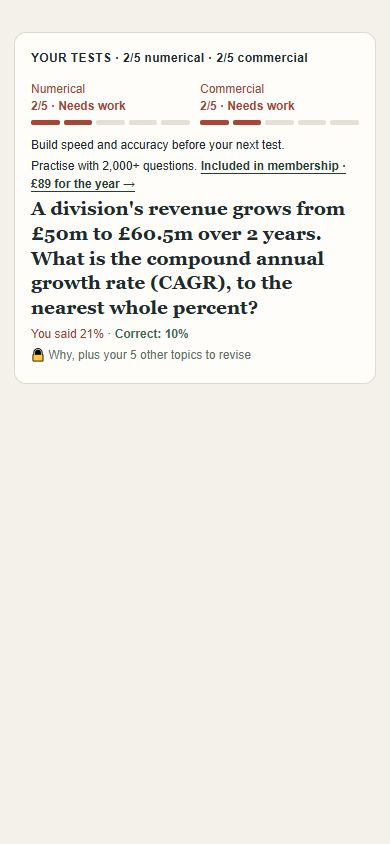
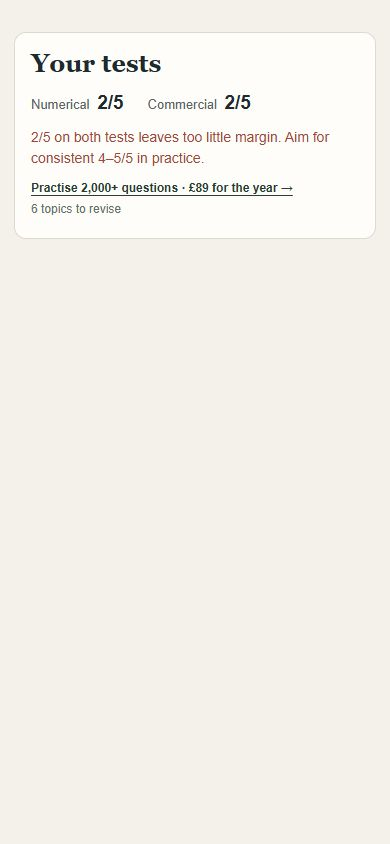
Keep test results brief and separate free benefits from full membership

Changed region(s): [[0.0308, 0.0616, 0.8923, 0.4313], [0.8615, 0.1232, 0.9231, 0.154]]

diff --git a/result-entry.js b/result-entry.js
@@ -18,15 +18,15 @@ function membershipUrl(id){return '/membership-start.html?return='+encodeURIComp
 function atsMarkup(e){const level=e.ats?.level||'Not available',tone=level.toLowerCase(),copy={Low:'Your CV could be filtered out before a person reads it.',Medium:'Parts of your CV may not read cleanly in application systems.',Strong:'Your CV text covers the main readiness checks.'}[level]||'Your saved ATS readiness result is not available.';return `<section class="check-ats ${tone}"><h2>ATS readiness</h2><div class="check-ats-card"><strong>${esc(level)}</strong><div class="check-ats-meter" aria-label="${esc(level)} ATS readiness">${[1,2,3].map(n=>`<i class="${n<=(level==='Strong'?3:level==='Medium'?2:level==='Low'?1:0)?'filled':''}"></i>`).join('')}</div><p>${copy}</p><p class="check-locked-note">Full ATS breakdown and fixes in your full review.</p></div></section>`;}
 export function sectionsCardMarkup(e){const rows=e.sections||[];if(!rows.length)return '';const labels={education:'YOUR DEGREE',skills:'YOUR SKILLS',interests:'YOUR INTERESTS'};return `<section class="check-sections"><h2>The sections most students waste</h2><p class="check-sections-sub">From your CV · what it says, what’s wrong, what to change</p>${rows.map((r,i)=>`<article class="check-section-row"><h3>${labels[r.id]||'YOUR CV'}</h3><blockquote><mark>${esc(r.says)}</mark></blockquote>${r.wrong?`<p class="check-section-wrong">✗ ${esc(r.wrong)}</p>`:'<p class="check-section-wrong">✗ flagged 🔒</p>'}${r.change?`<div class="check-section-change"><strong>Change:</strong> ${esc(r.change)}</div>`:e.unlocked?'<p class="check-section-lock">🔒 In your full review · £89 for the year</p>':i===0?'<div class="check-section-change"><span class="entry-locked-placeholder" aria-hidden="true">Your personal section advice appears here after joining.</span><p class="check-section-lock">🔒 Join free to see what to change</p></div>':''}${r.rewrite?`<p class="check-section-rewrite"><strong>Rewritten:</strong> ${gapMarkup(r.rewrite)}</p>`:''}</article>`).join('')}${!e.unlocked&&rows.length>1?`<p class="check-more">+${rows.length-1} more sections flagged</p>`:''}</section>`;}
 function interviewValueMarkup(e){const q=e.interviewQuestion;if(!q)return '';return `<section class="check-question-value"><h2>A question you’ll be asked</h2><blockquote>${esc(q.question)}</blockquote><p class="check-value-label">How to answer, built from your CV:</p><ol class="check-answer-beats"><li><strong>✓ Situation</strong><p>${esc(q.situation)}</p></li>${e.unlocked?(q.beats||[]).slice(1).map((beat,i)=>`<li><strong>${i?'Result':'What you did'}</strong><p>${gapMarkup(beat)}</p></li>`).join(''):['What you did','Result'].map(label=>`<li class="check-locked-beat"><strong>🔒 ${label}</strong><p class="entry-locked-placeholder" aria-hidden="true">Your personal evidence and answer guidance appear here.</p></li>`).join('')}</ol>${e.unlocked?`<a class="ink" href="${esc(q.practiceUrl)}">Practise it →</a>`:'<p class="check-value-unlock">Join free to see the full answer + practise it on camera</p>'}</section>`;}
-function testBandsMarkup(e,id){const t=e.tests;if(!t||t.skipped)return '';const marks=[['Numerical',t.numerical],['Commercial',t.commercial]],lowest=Math.min(t.numerical,t.commercial);return `<div class="check-test-bands">${marks.map(([label,score])=>{const b=testResultBand(score);return `<div class="check-test-band ${b.tone}"><span>${label}</span><strong>${score}/5 · ${b.label}</strong><div class="check-test-segments" aria-label="${score} out of 5">${[1,2,3,4,5].map(n=>`<i class="${n<=score?'filled':''}"></i>`).join('')}</div></div>`;}).join('')}</div><p class="check-test-guidance">${esc(testResultBand(lowest).message)}</p><p class="check-test-upsell">${e.member?'<a href="/tests.html">Keep practising →</a>':`Practise with 2,000+ questions. <a href="${esc(membershipUrl(id))}">Included in membership · £89 for the year →</a>`}</p>`;}
-function testValueMarkup(e,id){const t=e.tests,v=e.testReview;if(!t||t.skipped||v?.skipped)return '<section class="check-test-value"><h2>Your tests</h2><p>Tests not taken · CV evidence score only</p></section>';return `<section class="check-test-value"><h2>YOUR TESTS · ${esc(t.numerical)}/${esc(t.numericalTotal)} numerical · ${esc(t.commercial)}/${esc(t.commercialTotal)} commercial</h2>${testBandsMarkup(e,id)}${v?.question?`<p class="check-wrong-question">${esc(v.question)}</p>${v.table?'<pre class="check-test-table">'+esc(typeof v.table==='string'?v.table:JSON.stringify(v.table))+'</pre>':''}<p class="check-your-answer">You said ${esc(v.selectedAnswer)} · <strong>Correct: ${esc(v.correctAnswer)}</strong></p>${e.unlocked?`<div class="check-worked-answer"><p>${esc(v.explanation)}</p><ul>${(v.steps||[]).map(step=>`<li>${esc(step)}</li>`).join('')}</ul><p>Topics to revise: ${esc((v.topics||[]).join(' · '))}</p></div>`:`<p class="check-value-unlock">🔒 Why${v.otherTopicCount?', plus your '+esc(v.otherTopicCount)+' other '+(v.otherTopicCount===1?'topic':'topics')+' to revise':''}</p>`}`:`<p>${v?.perfect?'Good result. Keep practising to maintain it under time pressure.':'Your saved marks are shown above. '+esc(t.topicCount||0)+' '+(t.topicCount===1?'topic':'topics')+' to revise. A saved answer is needed to show a specific mistake.'}</p>`}</section>`;}
-function stillLockedMarkup(e,id){if(e.member)return '';const count=e.membership?.flaggedCount||0,other=e.testReview?.otherTopicCount||0;return `<section class="check-still-locked"><h2>Still locked for you</h2><ul>${!e.unlocked?'<li>The full answer to your interview question</li>':''}${other&&!e.unlocked?`<li>Your ${esc(other)} other test ${other===1?'topic':'topics'}</li>`:''}<li>${count?`All ${esc(count)} CV lines fixed`:'Your full CV review and fixes'}</li><li>Your full ATS breakdown and fixes</li><li>Your degree, skills and interests rewritten</li></ul><a class="ink" href="${esc(membershipUrl(id))}">Unlock membership · £89 for the year</a><p class="check-payment-note">One payment · no auto-renewal · less than one CV rewrite</p><button type="button" class="check-start-again" data-assessment-restart>Start again</button></section>`;}
+function testBandsMarkup(e,id){const t=e.tests;if(!t||t.skipped)return '';const low=Math.min(t.numerical,t.commercial),where=t.numerical===t.commercial?'on both tests':'on your weaker test',warning=low<4?`${low}/5 ${where} leaves too little margin. Aim for consistent 4–5/5 in practice.`:low===4?'4/5 leaves one mistake. Practise until you can repeat 5/5 under time pressure.':'5/5 is a good result. Keep this score consistent under time pressure.';return `<p class="check-test-marks"><span>Numerical <strong>${esc(t.numerical)}/${esc(t.numericalTotal)}</strong></span><span>Commercial <strong>${esc(t.commercial)}/${esc(t.commercialTotal)}</strong></span></p><p class="check-test-warning">${esc(warning)}</p><p class="check-test-upsell">${e.member?'<a href="/tests.html">Keep practising →</a>':`<a href="${esc(membershipUrl(id))}">Practise 2,000+ questions · £89 for the year →</a>`}</p>`;}
+function testValueMarkup(e,id){const t=e.tests,v=e.testReview;if(!t||t.skipped||v?.skipped)return '<section class="check-test-value"><h2>Your tests</h2><p>Tests not taken · CV evidence score only</p></section>';return `<section class="check-test-value"><h2>Your tests</h2>${testBandsMarkup(e,id)}${v?.question&&e.unlocked?`<details class="check-test-mistake"><summary>Review one mistake</summary><p class="check-wrong-question">${esc(v.question)}</p>${v.table?'<pre class="check-test-table">'+esc(typeof v.table==='string'?v.table:JSON.stringify(v.table))+'</pre>':''}<p class="check-your-answer">You said ${esc(v.selectedAnswer)} · <strong>Correct: ${esc(v.correctAnswer)}</strong></p>${e.unlocked?`<div class="check-worked-answer"><p>${esc(v.explanation)}</p><ul>${(v.steps||[]).map(step=>`<li>${esc(step)}</li>`).join('')}</ul><p>Topics to revise: ${esc((v.topics||[]).join(' · '))}</p></div>`:`<p class="check-value-unlock">🔒 Why${v.otherTopicCount?', plus your '+esc(v.otherTopicCount)+' other '+(v.otherTopicCount===1?'topic':'topics')+' to revise':''}</p>`}</details>`:(t.topicCount?`<p class="check-value-unlock">${esc(t.topicCount)} ${t.topicCount===1?'topic':'topics'} to revise</p>`:'')}</section>`;}
+function closingOffersMarkup(e,id){if(e.member)return '';const count=e.membership?.flaggedCount||0,firm=e.target?.firm||'',topics=e.tests?.topicCount||0;return `<section class="check-free-unlocks"><h2>${e.unlocked?'Included free':'Get for free'}</h2><ul><li>${count?'Your full breakdown and first CV line fixed':'Your full breakdown'}</li><li>Your interview answer, built from your CV</li>${e.tests&&!e.tests.skipped?'<li>Your test explanation and topics to revise</li>':''}${e.sections?.length?'<li>What to change in your first flagged section</li>':''}<li>Your free tools set up from your CV</li></ul></section><section class="check-membership-offer"><div class="plan-offer"><div class="kicker">£89 for the year · Full membership</div><h2>${firm?'Get every line fixed before '+esc(firm)+' sees it.':'Get every line fixed before you apply.'}</h2><div class="plan-rows">${[count?'All '+count+' CV lines fixed, plus your ATS fixes':'Your full CV review and ATS fixes','Application answers built from your CV','Interview practice, scored and improved',topics?'Your '+topics+' test topics, with 2,000+ practice questions':'2,000+ practice questions','Your degree, skills and interests rewritten'].map(text=>`<div><span aria-hidden="true">✓</span><p><b>${esc(text)}</b></p></div>`).join('')}</div><a class="ink" href="${esc(membershipUrl(id))}">Get full membership · £89 for the year</a><p class="check-payment-note">One payment · no auto-renewal · less than one CV rewrite</p><a class="sample-link" href="/fullcycle-amelia.html">See a full sample report →</a></div><button type="button" class="check-start-again" data-assessment-restart>Start again</button></section>`;}
 function scoreOpening(e){const headline=e.max===100?e.verdict||'Your assessment is ready.':'Your CV evidence, reviewed.',target=[e.target?.route,e.target?.firm].filter(Boolean).join(' · ');return `<section class="check-opening"><p class="check-target">${esc(target||'Your CV check')}</p><h1>${esc(headline)}</h1><div class="check-big-score"><strong>${esc(e.score)}<small>/${esc(e.max)}</small></strong><p>${esc(e.band)} · your readiness score</p>${bandBar(e)}</div><button type="button" class="check-reveal" aria-expanded="false" aria-controls="cvCheckDetails">Show me what’s holding me back ↓</button></section>`;}
 export function freeSummaryMarkup(e,id=''){
  const headline=e.max===100?e.verdict||'Your assessment is ready.':'Your CV evidence, reviewed.',teaser=e.teaser,count=e.membership?.flaggedCount??(teaser?teaser.remainingCount+1:0),target=[e.target?.route,e.target?.firm].filter(Boolean).join(' · ');
  const reasons=(e.reasons||[]).slice(0,e.unlocked?3:1).map((r,i)=>`<li><b class="check-reason-number" aria-hidden="true">${i+1}</b>${esc(r.text)}</li>`).join('')+(e.unlocked?'':'<li class="summary-hidden-reason"><b class="check-reason-number" aria-hidden="true">2</b><p class="entry-locked-placeholder" aria-hidden="true">Your personalised reason and next step appear here.</p><span class="summary-email-label">Join free to unlock reason 2</span></li>');
  const line=teaser?`<section class="check-lines"><h2>Your weakest lines <span>${count} flagged</span></h2><article class="check-cv-paper">${teaser.role?`<p class="check-role">${esc(teaser.role)}</p>`:''}<blockquote><mark>${esc(teaser.original)}</mark></blockquote><p class="check-line-why">↑ ${esc(teaser.why)}</p><div class="summary-missing"><strong>Missing:</strong><ul class="summary-missing-chips">${(teaser.chips||[]).map(chip=>`<li>${esc(chip)}</li>`).join('')}</ul></div>${e.unlocked?'<div id="entryLineFixes" aria-live="polite"><p>Preparing your first fact-grounded fix…</p></div>':`<p class="entry-locked-placeholder" aria-hidden="true">${esc(teaser.placeholder)}</p>`}</article>${e.unlocked?(e.flaggedLines||[]).slice(1,3).map(l=>`<div class="check-locked-line check-revealed-line"><div><blockquote>${esc(l.original)}</blockquote><p>${esc(l.issue)}</p></div><span aria-label="Member rewrite">🔒</span></div>`).join(''):Array.from({length:Math.min(2,teaser.remainingCount)},()=>'<div class="check-locked-line"><span class="entry-locked-placeholder" aria-hidden="true">Your additional flagged CV line appears here.</span><span aria-label="Unlock with your free account">🔒</span></div>').join('')}${teaser.remainingCount>2?`<p class="check-more">+ ${teaser.remainingCount-2} more flagged on your CV</p>`:''}</section>`:'<section class="check-lines"><h2>No weak lines flagged</h2><p>Read the full assessment for your evidence and score breakdown.</p></section>';
- return `<article class="free-summary-template score-first-check">${scoreOpening(e)}<div id="cvCheckDetails" class="entry-check-details" hidden><section class="check-reasons">${e.deadline?`<p class="summary-deadline">${esc(e.deadline.firm)} ${esc(e.deadline.programme)} closes in ${esc(e.deadline.days)} days</p>`:''}<h2>Why you wouldn’t be shortlisted</h2><ol class="summary-reason-list">${reasons}${e.unlocked?'':`<li class="summary-third"><b class="check-reason-number" aria-hidden="true">3</b><p class="entry-locked-placeholder" aria-hidden="true">${esc(e.hiddenReason?.placeholder||'Your personalised reason and next step appear here.')}</p><span>The one most students miss</span></li>`}</ol></section>${interviewValueMarkup(e)}${line}${sectionsCardMarkup(e)}${testValueMarkup(e,id)}${atsMarkup(e)}${fullDetailMarkup(e,id)}<section class="check-join">${approvedQuote()}</section>${stillLockedMarkup(e,id)}${e.unlocked?'':emailForm(e,id)}</div></article>`;
+ return `<article class="free-summary-template score-first-check">${scoreOpening(e)}<div id="cvCheckDetails" class="entry-check-details" hidden><section class="check-reasons">${e.deadline?`<p class="summary-deadline">${esc(e.deadline.firm)} ${esc(e.deadline.programme)} closes in ${esc(e.deadline.days)} days</p>`:''}<h2>Why you wouldn’t be shortlisted</h2><ol class="summary-reason-list">${reasons}${e.unlocked?'':`<li class="summary-third"><b class="check-reason-number" aria-hidden="true">3</b><p class="entry-locked-placeholder" aria-hidden="true">${esc(e.hiddenReason?.placeholder||'Your personalised reason and next step appear here.')}</p><span>The one most students miss</span></li>`}</ol></section>${interviewValueMarkup(e)}${line}${sectionsCardMarkup(e)}${testValueMarkup(e,id)}${atsMarkup(e)}${fullDetailMarkup(e,id)}<section class="check-join">${approvedQuote()}</section>${closingOffersMarkup(e,id)}${e.unlocked?'':emailForm(e,id)}</div></article>`;
 }
 export function lineFixesMarkup(lines){return lines.map(line=>`<article class="entry-line-fix"><h3>Your CV line</h3><blockquote>${esc(line.original)}</blockquote><p>${esc(line.why)}</p><h3>Stronger version</h3><p class="entry-after">${gapMarkup(line.line)}</p>${/\[/.test(line.line)?'<small class="entry-needs-facts">Fill in the amber details with facts you can support before using this line.</small>':''}</article>`).join('');}
 function fullDetailMarkup(e,id){if(!e.unlocked)return '';const detail=e.detail||{};return `<details class="check-full-detail"><summary>Your full free assessment</summary><h3>What’s working</h3><p>${esc(e.summary||'Your supporting CV evidence is recorded below.')}</p>${e.university?`<p>${esc(e.university)}</p>`:''}<h3>Your CV evidence</h3><h3>Your university and course</h3><p>${esc(e.course?.note)}</p><p>${esc(e.course?.grade)}</p>${(detail.competencies||[]).map(c=>`<article><h3>${esc(c.name)} <span>${esc(c.score)}/100</span></h3><p>${esc(c.reason)}</p></article>`).join('')}${practitionerMarkup(e,id)}<p>${esc(detail.atsMethodology||'')}</p><a href="/my.html">Open My Desk →</a></details>`;}

diff --git a/result-entry.css b/result-entry.css
@@ -77,3 +77,7 @@
 .entry-check-details .check-more{font-weight:700;color:#35433e}.entry-check-details .check-lines h2>span{font-size:16px;padding:6px 11px}
 
 .check-test-bands{display:grid;grid-template-columns:1fr 1fr;gap:10px;margin:12px 0}.check-test-band{font-size:12px;color:#a74638}.check-test-band>span,.check-test-band>strong{display:block;margin:3px 0}.check-test-band.borderline{color:#8b691e}.check-test-band.good{color:#356b52}.check-test-segments{display:flex;gap:4px;margin-top:7px}.check-test-segments i{height:5px;border-radius:2px;flex:1;background:#e6dfd6}.check-test-segments .filled{background:currentColor}.check-test-guidance,.check-test-upsell{font-size:12px!important;line-height:1.45!important}.check-test-upsell a{color:#263e33;font-weight:650;text-underline-offset:3px}
+
+#resultContent .check-test-value h2{font:600 25px/1.15 'EB Garamond',Georgia,serif;letter-spacing:0;margin:0 0 12px}.check-test-marks{display:flex;flex-wrap:wrap;gap:8px 24px;font-size:13px!important;color:#57645f}.check-test-marks strong{font-size:19px;color:#1f2a2e;margin-left:4px}.check-test-warning{font-size:14px!important;line-height:1.45!important;color:#a34837;margin:12px 0!important}.check-test-mistake{margin-top:12px}.check-test-mistake>summary{font-size:12px;color:#5d6a63;text-decoration:underline;cursor:pointer}
+
+.check-free-unlocks ul{list-style:none;padding:0;margin:12px 0;font-size:14px;line-height:1.5}.check-free-unlocks li{padding:5px 0 5px 23px;position:relative}.check-free-unlocks li:before{content:'✓';position:absolute;left:0;color:#47795e}.check-membership-offer .plan-offer{background:#1f2a2e;color:#fff;padding:24px;border-radius:18px}.check-membership-offer .plan-offer h2{font:600 30px/1.08 'EB Garamond',Georgia,serif;color:#fff;margin:16px 0}.check-membership-offer .kicker{color:#e6a183;font-size:10px;letter-spacing:.12em}.check-membership-offer .plan-rows>div{display:flex;gap:12px;border-bottom:1px solid #ffffff26;padding:12px 0}.check-membership-offer .plan-rows span{color:#8bc0a6}.check-membership-offer .plan-rows p{margin:0;font-size:14px;line-height:1.45}.check-membership-offer .ink{display:block;margin-top:22px;padding:14px;background:white;border-radius:9px;text-align:center;color:#1f2a2e;font:700 14px Figtree,Arial,sans-serif;text-decoration:none}.check-membership-offer .check-payment-note{color:#bcc7c1;font-size:11px!important;margin:12px 0!important}.check-membership-offer .sample-link{display:block;color:#d8e0db;text-align:center;font-size:12px}

diff --git a/HANDOVER.md b/HANDOVER.md
@@ -1,3 +1,11 @@
+# START HERE — final compact tests and free/paid ending27November
+
+Latest steering overrides earlier testsbandgraphics/wronganswer upfront and Stilllockedending. Public Yourtests nowtworealmarks,onescore-specificwarning,one2,000+practicequestionsmembershiplink,topiccount. Nometer/bandbadges/question/answer upfront. Low0–3/5 aimsforconsistent4–5/5practice;4/5aimsforrepeat5/5;5/5maintainunderpressure. No inventedall-employer1%stat or guaranteedpasscutoff. Joinedusers canoptionallyopenclosedReviewonemistake withactualworkedexplanation. OldapprovedtestResultBandexportretainedcompatibilitybutnotrendered.
+
+ReplacedStilllockedwithGetforfreebenefits (Includedfreeafterjoin),thenexistingdarkplan-offer membershipstyle at£89fortheyear. Firstfix/firstsectionbenefitsconditionalonactualflaggedcontent. Membershiplistpersonalisedbyfirm/flagcount/testtopics;no fabricatedscoreuplift. Paymentnotenonautorenewalretained. Startagainbuttonpreserved. Phone390x844 screenshots tests.jpg/closing.jpg refreshed docs/verification/headline-reasons-27nov.114 focusedchecks passedbeforelastconditionalcopy;21latestsummary/valuechecks passed;finalbroadnext. Currentimplementation mustbedeployedandverified beforeclaiminglive;earlier79c25b4deploymentincludesattachedheadline+redirectbutnotthislatestcompactending.
+
+---
+
 # START HERE — attached headline reason framework27November
 
 Latestuserattachments Downloads/cv-fault-framework_1.mjs and test_1.mjs were read. Incorporated exactapprovedharsherCV_GAPS/FALLBACK_GAPS,headlinelead rule,sectionsCheck advice+trapwording andtestGap. Replacedattachedtestfile andpreservedproductionadapters/allFlaggedLines/coursemetadata/routewording/fairness fixes;blindwholereplacementwouldremove required APIfields andregresspriorfixes. Publicquotes remainexact,untruncated. Attachedtests pass. StrongCVfallback includes qualifyingCVsubject (AmeliaLVMHvaluation). Actualquizmarks feedtestGap,invalid/skippedmarks donot;testsweakmayleadat<=4/10. headlinepropertynow explicittrueonreason1. Skills/interests/orderingneverlead. Sectionsfullmemberrewritesremainfact-only/gaps.35 latestframework/reportchecks pass;broader112 priorchecks pass;finalbroad rerun next. Proof docs/verification/headline-reasons-27nov includes4CV-onlyphoneviews+testsection;sections8proof refreshed toattachedwording.

diff --git a/docs/verification/headline-reasons-27nov/README.md b/docs/verification/headline-reasons-27nov/README.md
@@ -3,3 +3,5 @@
 Four390x844 localCV-only render previews,using actual framework and report renderer:Jameschores,Tomnorelevantwork,AmeliaLVMHvaluation,SophieWarwickbudgetevents.2/3numberbadges remainunblurred. Tests screenshotusesactual bankquestions and recorded2/5+2/5answers,withactualwronganswer andcorrectanswer. These are notlive email-unlock screenshots.
 
 Attached cv-fault-framework_1.mjs and test_1.mjs read and incorporated. Attached exactgapwording/headlineflags,sectionsadvice/traps andtestGap included;productionallFlaggedLines/coursemetadata/routewording/spellednumbervalidation/inlineSkills support retained. Sectionquotes remainexact (no suppliedtruncation). sectionsPreview guards allprotectedfields. Harsherreasonfallback enriched withCV-onlysubject;academicvaluationpreferredwhenavailable. testGap getsactualquiztotals from frameworkResult,not generated scores.
+
+Latest tests screenshot replaces the earlier bands/answer graphic:onlymarks,warning,practiceprice,topiccount visible. closing.jpg shows Getforfree then darkfullmembershipcard.
